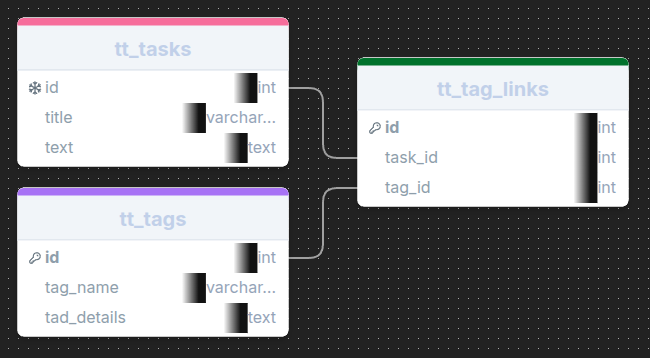
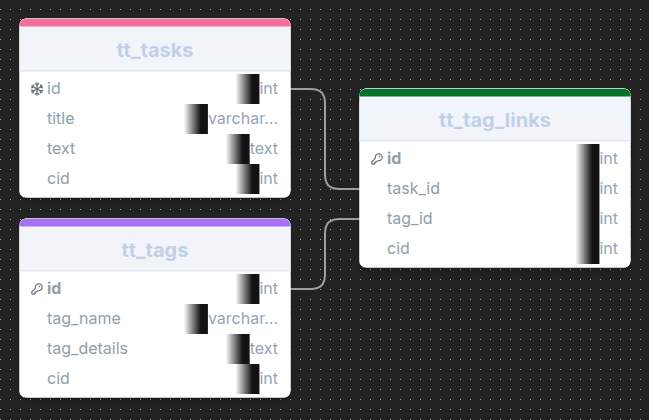
feat:database tables.sql created

Changed region(s): [[0.0, 0.0307, 0.9861, 0.9525], [0.1849, 0.5838, 0.3082, 0.6453], [0.5855, 0.4302, 0.678, 0.4609]]

diff --git a/README.md b/README.md
@@ -54,10 +54,12 @@ Footer (always visible)
 
 <img src="./misc/TagTodo-Schema.png" alt="schema of three tables" width="400" >
 
-- tt\_ unique prefix for multi use database
+- tt\_ A unique prefix for multi use database
 - tt_tasks the tasks, with title and text
 - tt_tags the tags, with title and details
 - tt_tag_links, the tag links table used to link a tag to a task
+
+All three have a cid column, this holds the owners clerk id.
 
 While the tasks and title have identical columns it is expected that the tasks will be expanded later and this separation of data will avoid confusion.
 
